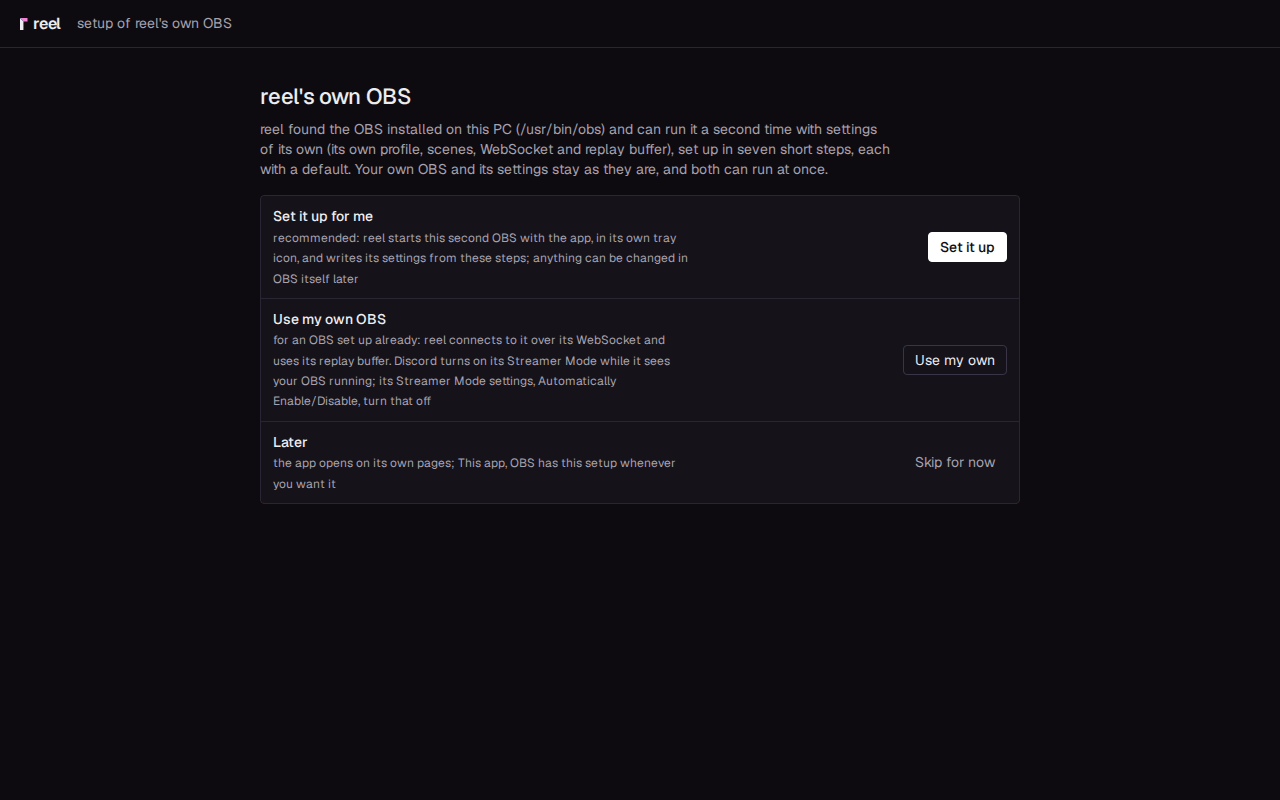
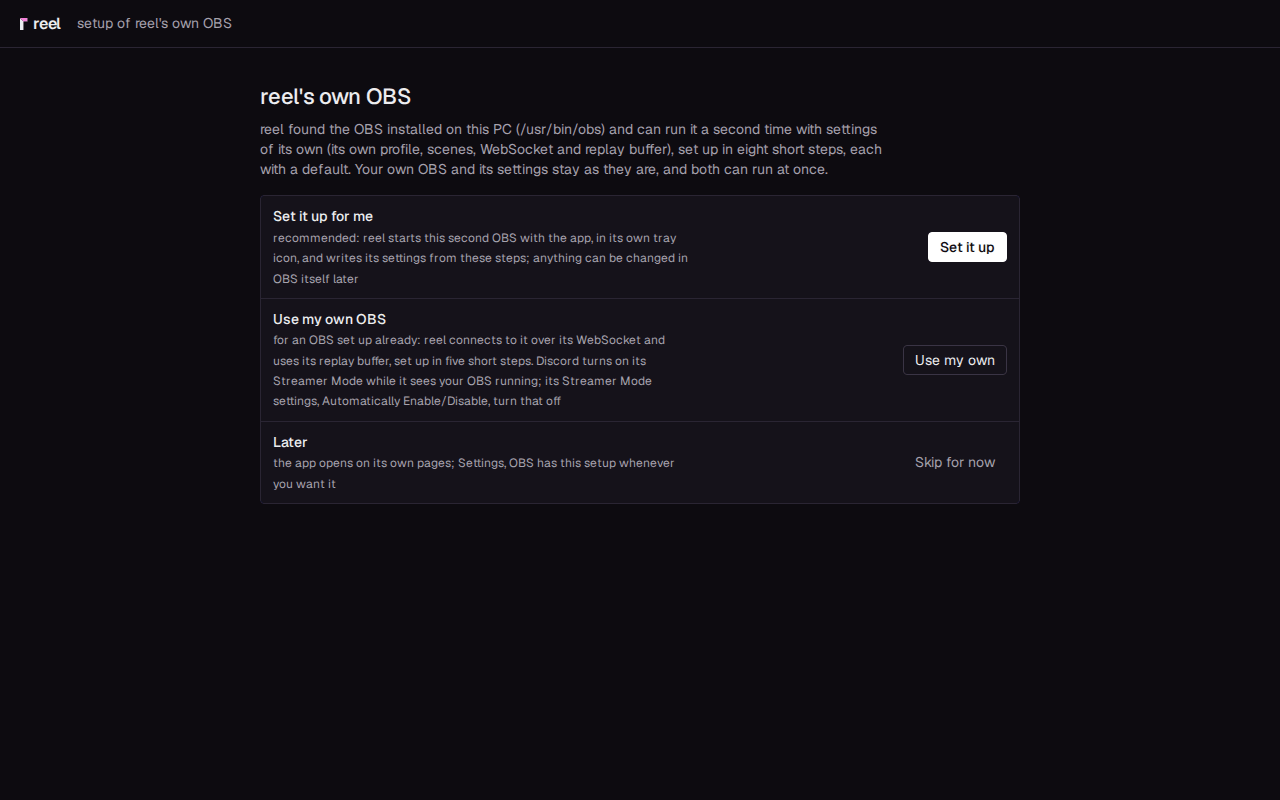
docs: pictures of reel light's setup, and the setup's choice taken again
Your OBS, The replay buffer and Done of the setup for your own OBS, in
Your own OBS. The choice of the setup of reel's own OBS, on Windows and on
Linux, is taken again: Use my own OBS counts its steps now.

Changed region(s): [[0.2188, 0.4375, 0.5312, 0.5312], [0.3438, 0.5625, 0.5312, 0.5938], [0.5938, 0.1562, 0.6875, 0.2188]]

diff --git a/docs/setup/own-obs.md b/docs/setup/own-obs.md
@@ -51,6 +51,8 @@ before you begin.
    says what to turn on in OBS, or that OBS wants the password. **Next** saves the connection,
    and the app connects.
 
+    ![Your OBS: connected, and what reel found](img/app-light-1-obs.png)
+
 2. **The replay buffer**: reel saves clips from OBS's replay buffer, the last minutes kept in
    memory and written to a file when you save. **What reel needs from OBS** checks the WebSocket
    and the replay buffer for as long as the app runs, and says in words what to do about either.
@@ -58,6 +60,8 @@ before you begin.
    on in OBS's profile and starts it (not while OBS records); off, you start it in OBS. **Clip
    length** shows how much OBS's replay buffer keeps; a length picked here is set in OBS's
    profile, and a running replay buffer starts again with it.
+
+    ![The replay buffer: what reel needs from OBS](img/app-light-2-replay-buffer.png)
 
 3. **Hotkeys**: **Save a clip** is Alt+F10. To change it, click the field and press the keys.
    OBS's own **Save Replay** key (in OBS, **Settings**, **Hotkeys**) saves a clip as well: OBS
@@ -70,6 +74,8 @@ before you begin.
    versions on GitHub** is on, and switched off only **Check now** asks. With a server this step
    is not there.
 6. **Done** shows a summary. Press **Finish**, and the window opens on your library.
+
+    ![Done, the summary](img/app-light-6-done.png)
 
 **Skip for now**, on every step, leaves the setup for later: the app opens on Settings, **OBS**,
 and **Run the setup**, in its **obs-websocket** panel, opens it again. An app that was set up
